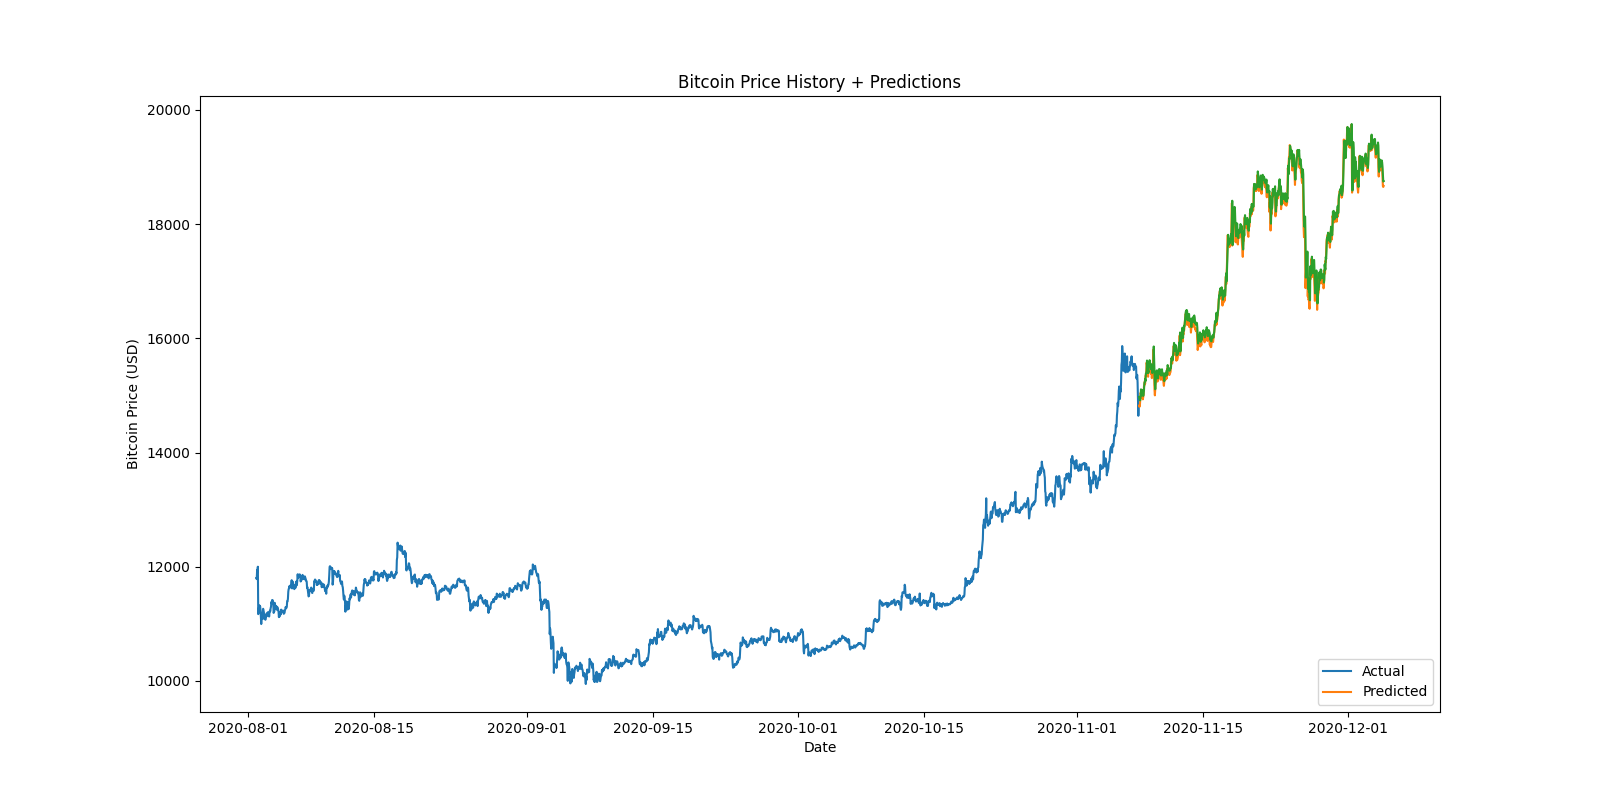
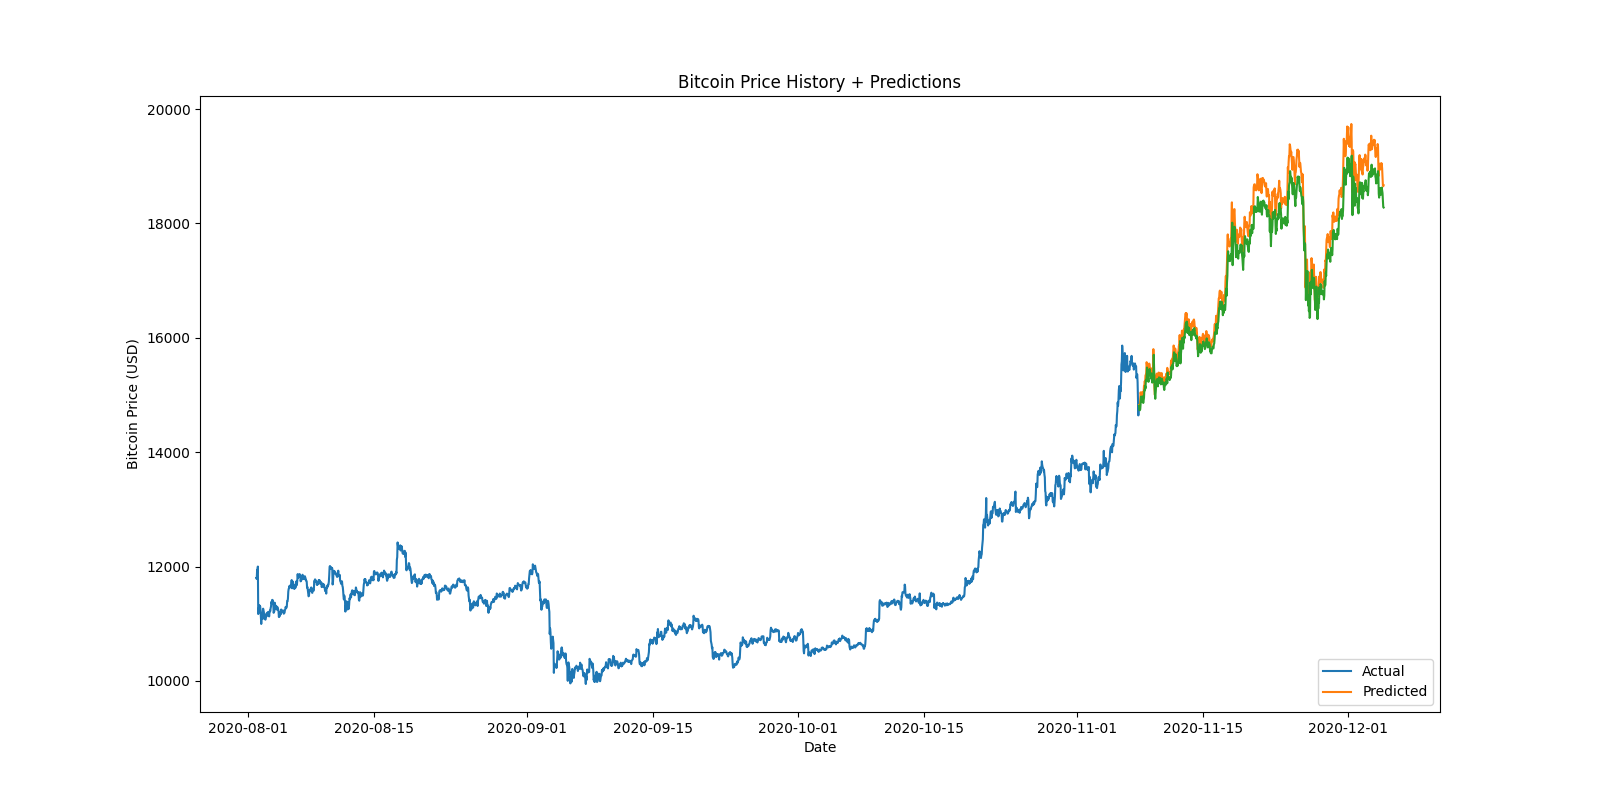
update model and start kraken

Changed region(s): [[0.6875, 0.1562, 0.875, 0.5], [0.0938, 0.4062, 0.125, 0.4375]]

diff --git a/.vscode/.ropeproject/config.py b/.vscode/.ropeproject/config.py
@@ -1,0 +1,114 @@
+# The default ``config.py``
+# flake8: noqa
+
+
+def set_prefs(prefs):
+    """This function is called before opening the project"""
+
+    # Specify which files and folders to ignore in the project.
+    # Changes to ignored resources are not added to the history and
+    # VCSs.  Also they are not returned in `Project.get_files()`.
+    # Note that ``?`` and ``*`` match all characters but slashes.
+    # '*.pyc': matches 'test.pyc' and 'pkg/test.pyc'
+    # 'mod*.pyc': matches 'test/mod1.pyc' but not 'mod/1.pyc'
+    # '.svn': matches 'pkg/.svn' and all of its children
+    # 'build/*.o': matches 'build/lib.o' but not 'build/sub/lib.o'
+    # 'build//*.o': matches 'build/lib.o' and 'build/sub/lib.o'
+    prefs['ignored_resources'] = ['*.pyc', '*~', '.ropeproject',
+                                  '.hg', '.svn', '_svn', '.git', '.tox']
+
+    # Specifies which files should be considered python files.  It is
+    # useful when you have scripts inside your project.  Only files
+    # ending with ``.py`` are considered to be python files by
+    # default.
+    # prefs['python_files'] = ['*.py']
+
+    # Custom source folders:  By default rope searches the project
+    # for finding source folders (folders that should be searched
+    # for finding modules).  You can add paths to that list.  Note
+    # that rope guesses project source folders correctly most of the
+    # time; use this if you have any problems.
+    # The folders should be relative to project root and use '/' for
+    # separating folders regardless of the platform rope is running on.
+    # 'src/my_source_folder' for instance.
+    # prefs.add('source_folders', 'src')
+
+    # You can extend python path for looking up modules
+    # prefs.add('python_path', '~/python/')
+
+    # Should rope save object information or not.
+    prefs['save_objectdb'] = True
+    prefs['compress_objectdb'] = False
+
+    # If `True`, rope analyzes each module when it is being saved.
+    prefs['automatic_soa'] = True
+    # The depth of calls to follow in static object analysis
+    prefs['soa_followed_calls'] = 0
+
+    # If `False` when running modules or unit tests "dynamic object
+    # analysis" is turned off.  This makes them much faster.
+    prefs['perform_doa'] = True
+
+    # Rope can check the validity of its object DB when running.
+    prefs['validate_objectdb'] = True
+
+    # How many undos to hold?
+    prefs['max_history_items'] = 32
+
+    # Shows whether to save history across sessions.
+    prefs['save_history'] = True
+    prefs['compress_history'] = False
+
+    # Set the number spaces used for indenting.  According to
+    # :PEP:`8`, it is best to use 4 spaces.  Since most of rope's
+    # unit-tests use 4 spaces it is more reliable, too.
+    prefs['indent_size'] = 4
+
+    # Builtin and c-extension modules that are allowed to be imported
+    # and inspected by rope.
+    prefs['extension_modules'] = []
+
+    # Add all standard c-extensions to extension_modules list.
+    prefs['import_dynload_stdmods'] = True
+
+    # If `True` modules with syntax errors are considered to be empty.
+    # The default value is `False`; When `False` syntax errors raise
+    # `rope.base.exceptions.ModuleSyntaxError` exception.
+    prefs['ignore_syntax_errors'] = False
+
+    # If `True`, rope ignores unresolvable imports.  Otherwise, they
+    # appear in the importing namespace.
+    prefs['ignore_bad_imports'] = False
+
+    # If `True`, rope will insert new module imports as
+    # `from <package> import <module>` by default.
+    prefs['prefer_module_from_imports'] = False
+
+    # If `True`, rope will transform a comma list of imports into
+    # multiple separate import statements when organizing
+    # imports.
+    prefs['split_imports'] = False
+
+    # If `True`, rope will remove all top-level import statements and
+    # reinsert them at the top of the module when making changes.
+    prefs['pull_imports_to_top'] = True
+
+    # If `True`, rope will sort imports alphabetically by module name instead
+    # of alphabetically by import statement, with from imports after normal
+    # imports.
+    prefs['sort_imports_alphabetically'] = False
+
+    # Location of implementation of
+    # rope.base.oi.type_hinting.interfaces.ITypeHintingFactory In general
+    # case, you don't have to change this value, unless you're an rope expert.
+    # Change this value to inject you own implementations of interfaces
+    # listed in module rope.base.oi.type_hinting.providers.interfaces
+    # For example, you can add you own providers for Django Models, or disable
+    # the search type-hinting in a class hierarchy, etc.
+    prefs['type_hinting_factory'] = (
+        'rope.base.oi.type_hinting.factory.default_type_hinting_factory')
+
+
+def project_opened(project):
+    """This function is called after opening the project"""
+    # Do whatever you like here!

diff --git a/kraken.py b/kraken.py
@@ -1,0 +1,92 @@
+# Kraken Rest API
+#
+# Usage: ./krakenapi.py method [parameters]
+# Example: ./krakenapi.py Time
+# Example: ./krakenapi.py OHLC pair=xbtusd interval=1440
+# Example: ./krakenapi.py Balance
+# Example: ./krakenapi.py OpenPositions
+# Example: ./krakenapi.py AddOrder pair=xxbtzusd type=buy ordertype=market volume=0.003 leverage=5
+
+import sys
+import platform
+import time
+import base64
+import hashlib
+import hmac
+
+import urllib.request as urllib2
+
+class KrakenTrader:
+    def __init__(self):
+        self.api_public = {"Time", "Assets", "AssetPairs", "Ticker", "OHLC", "Depth", "Trades", "Spread"}
+        self.api_private = {"Balance", "BalanceEx", "TradeBalance", "OpenOrders", "ClosedOrders", "QueryOrders", "TradesHistory", "QueryTrades", "OpenPositions", "Ledgers", "QueryLedgers", "TradeVolume", "AddExport", "ExportStatus", "RetrieveExport", "RemoveExport", "GetWebSocketsToken"}
+        self.api_trading = {"AddOrder", "CancelOrder", "CancelAll"}
+        self.api_funding = {"DepositMethods", "DepositAddresses", "DepositStatus", "WithdrawInfo", "Withdraw", "WithdrawStatus", "WithdrawCancel", "WalletTransfer"}
+
+        self.api_domain = "https://api.kraken.com"
+
+    def main(self, args):
+        api_data = ""
+        args = ['']+args # for the stupid sys.argv conversion -- fix later
+        if len(args) < 2:
+            api_method = "Time"
+        elif len(args) == 2:
+            api_method = args[1]
+        else:
+            api_method = args[1]
+            for count in range(2, len(args)):
+                if count == 2:
+                    api_data = args[count]
+                else:
+                    api_data = api_data + "&" + args[count]
+        print(args)
+        if api_method in self.api_private or api_method in self.api_trading or api_method in self.api_funding:
+            api_path = "/0/private/"
+            api_nonce = str(int(time.time()*1000))
+            try:
+                api_key = open("keys/kraken_public").read().strip()
+                api_secret = base64.b64decode(open("keys/kraken_private").read().strip())
+            except:
+                print("API public key and API private (secret) key must be in text files in keys/ called kraken_public and kraken_private")
+                sys.exit(1)
+            api_postdata = api_data + "&nonce=" + api_nonce
+            api_postdata = api_postdata.encode('utf-8')
+            api_sha256 = hashlib.sha256(api_nonce.encode('utf-8') + api_postdata).digest()
+            api_hmacsha512 = hmac.new(api_secret, api_path.encode('utf-8') + api_method.encode('utf-8') + api_sha256, hashlib.sha512)
+            api_request = urllib2.Request(self.api_domain + api_path + api_method, api_postdata)
+            api_request.add_header("API-Key", api_key)
+            api_request.add_header("API-Sign", base64.b64encode(api_hmacsha512.digest()))
+            api_request.add_header("User-Agent", "Kraken REST API")
+        elif api_method in self.api_public:
+            api_path = "/0/public/"
+            api_request = urllib2.Request(self.api_domain + api_path + api_method + '?' + api_data)
+            api_request.add_header("User-Agent", "Kraken REST API")
+        else:
+            print("Usage: %s method [parameters]" % args[0])
+            print("Example: %s OHLC pair=xbtusd interval=1440" % args[0])
+            sys.exit(1)
+
+        try:
+            api_reply = urllib2.urlopen(api_request).read()
+        except Exception as error:
+            print("API call failed (%s)" % error)
+            sys.exit(1)
+
+        try:
+            api_reply = api_reply.decode()
+        except Exception as error:
+            if api_method == 'RetrieveExport':
+                sys.stdout.buffer.write(api_reply)
+                sys.exit(0)
+            print("API response invalid (%s)" % error)
+            sys.exit(1)
+
+        if '"error":[]' in api_reply:
+            print(api_reply)
+            sys.exit(0)
+        else:
+            print(api_reply)
+            sys.exit(1)
+
+kt = KrakenTrader()
+kt.main(['Ticker', 'pair=xbtusd'])

diff --git a/data/V3WebsocketExample.py b/data/V3WebsocketExample.py
@@ -1,0 +1,127 @@
+#!/usr/bin/python
+# -*- coding: utf-8 -*-
+#
+# Last tested 2020/09/24 on Python 3.8.5
+#
+# Note: This file is intended solely for testing purposes and may only be used 
+#   as an example to debug and compare with your code. The 3rd party libraries 
+#   used in this example may not be suitable for your production use cases.
+#   You should always independently verify the security and suitability of any 
+#   3rd party library used in your code.
+
+from signalr_aio import Connection # https://github.com/slazarov/python-signalr-client
+from base64 import b64decode
+from zlib import decompress, MAX_WBITS
+import hashlib
+import hmac
+import json
+import asyncio
+import time
+import uuid
+
+URL = 'https://socket-v3.bittrex.com/signalr'
+API_KEY = ''
+API_SECRET = ''
+
+HUB = None
+LOCK = asyncio.Lock()
+INVOCATION_EVENT = None
+INVOCATION_RESPONSE = None
+
+async def main():
+  await connect()
+  if(API_SECRET != ''):
+    await authenticate()
+  else:
+    print('Authentication skipped because API key was not provided')
+  await subscribe()
+  forever = asyncio.Event()
+  await forever.wait()
+
+async def connect():
+  global HUB
+  connection = Connection(URL)
+  HUB = connection.register_hub('c3')
+  connection.received += on_message
+  connection.error += on_error
+  connection.start()
+  print('Connected')
+ 
+async def authenticate():
+  timestamp = str(int(time.time()) * 1000)
+  random_content = str(uuid.uuid4())
+  content = timestamp + random_content
+  signed_content = hmac.new(API_SECRET.encode(), content.encode(), hashlib.sha512).hexdigest()
+
+  response = await invoke('Authenticate',
+    API_KEY,
+    timestamp,
+    random_content,
+    signed_content)
+
+  if response['Success']:
+    print('Authenticated')
+    HUB.client.on('authenticationExpiring', on_auth_expiring)
+  else:
+    print('Authentication failed: ' + response['ErrorCode'])
+
+async def subscribe():
+  HUB.client.on('heartbeat', on_heartbeat)
+  HUB.client.on('trade', on_trade)
+  HUB.client.on('balance', on_balance)
+  channels = [
+    'heartbeat',
+    'trade_BTC-USD',
+    'balance'
+  ]
+  
+  response = await invoke('Subscribe', channels)
+  for i in range(len(channels)):
+    if response[i]['Success']:
+      print('Subscription to "' + channels[i] + '" successful')
+    else:
+      print('Subscription to "' + channels[i] + '" failed: ' + response[i]['ErrorCode'])
+  
+async def invoke(method, *args):
+  async with LOCK:
+    global INVOCATION_EVENT
+    INVOCATION_EVENT = asyncio.Event()
+    HUB.server.invoke(method, *args)
+    await INVOCATION_EVENT.wait()
+    return INVOCATION_RESPONSE
+
+async def on_message(**msg):
+  global INVOCATION_RESPONSE
+  if 'R' in msg:
+    INVOCATION_RESPONSE = msg['R']
+    INVOCATION_EVENT.set()
+
+async def on_error(msg):
+  print(msg)
+
+async def on_heartbeat(msg):
+  print('\u2661')
+
+async def on_auth_expiring(msg):
+  print('Authentication expiring...')
+  asyncio.create_task(authenticate())
+
+async def on_trade(msg):
+  await print_message('Trade', msg)
+
+async def on_balance(msg):
+  await print_message('Balance', msg)
+
+async def print_message(title, msg):
+  decoded_msg = await process_message(msg[0])
+  print(title + ': ' + json.dumps(decoded_msg, indent = 2))
+
+async def process_message(message):
+  try:
+    decompressed_msg = decompress(b64decode(message, validate=True), -MAX_WBITS)
+  except SyntaxError:
+    decompressed_msg = decompress(b64decode(message, validate=True))
+  return json.loads(decompressed_msg.decode()) 
+
+if __name__ == "__main__":
+  asyncio.run(main())

diff --git a/predict_bc.py b/predict_bc.py
@@ -42,7 +42,12 @@ plot_and_save(df['close'], 'Date', 'Bitcoin Price (USD)', 'Hourly Close Price Hi
 #this pointless ngl. don't use the function ^
 
 midpoint = 2350
-lookback = 10
+lookback = 20 # 10 is good
+epochs = 13
+units = 70 # 65 is good
+batch_size = 2 # 1 is good
+
+print('midpoint =',midpoint,'\nlookback =',lookback,'\nepochs =',epochs,'\nunits =',units,'\nbatch_size =',batch_size)
 
 #creating dataframe
 data = df.sort_index(ascending=True, axis=0)
@@ -75,12 +80,12 @@ x_train = np.reshape(x_train, (x_train.shape[0],x_train.shape[1],1))
 
 # create and fit the LSTM network
 model = Sequential()
-model.add(LSTM(units=65, return_sequences=True, input_shape=(x_train.shape[1],1))) #units=hidden state length
-model.add(LSTM(units=65))
+model.add(LSTM(units=units, return_sequences=True, input_shape=(x_train.shape[1],1))) #units=hidden state length
+model.add(LSTM(units=units))
 model.add(Dense(1))
 
 model.compile(loss='mean_squared_error', optimizer='adam')
-model.fit(x_train, y_train, epochs=4, batch_size=1, verbose=2)
+model.fit(x_train, y_train, epochs=epochs, batch_size=batch_size, verbose=2)
 
 #predicting values, using past lookback from the train data
 inputs = new_data[len(new_data) - len(valid) - lookback:].values
@@ -97,7 +102,7 @@ closing_price = model.predict(X_test) #~!!!
 closing_price = scaler.inverse_transform(closing_price)
 
 rms=np.sqrt(np.mean(np.power((valid-closing_price),2)))
-rms
+print('RMS:',rms)
 
 #for plotting
 train = new_data[:midpoint]
@@ -144,4 +149,5 @@ for i in range(0,actual_slope.size):
     #print(actual_slope[i],' ',pred_slope[i])
     if (actual_slope[i]<0 and pred_slope[i]> 0) or (actual_slope[i]>0 and pred_slope[i]< 0):
         tally+=1
-print(tally/actual_slope.size)
+perc_correct = (1-(tally/actual_slope.size))*100
+print('Derivative correct {:.1f}%'.format(perc_correct))
